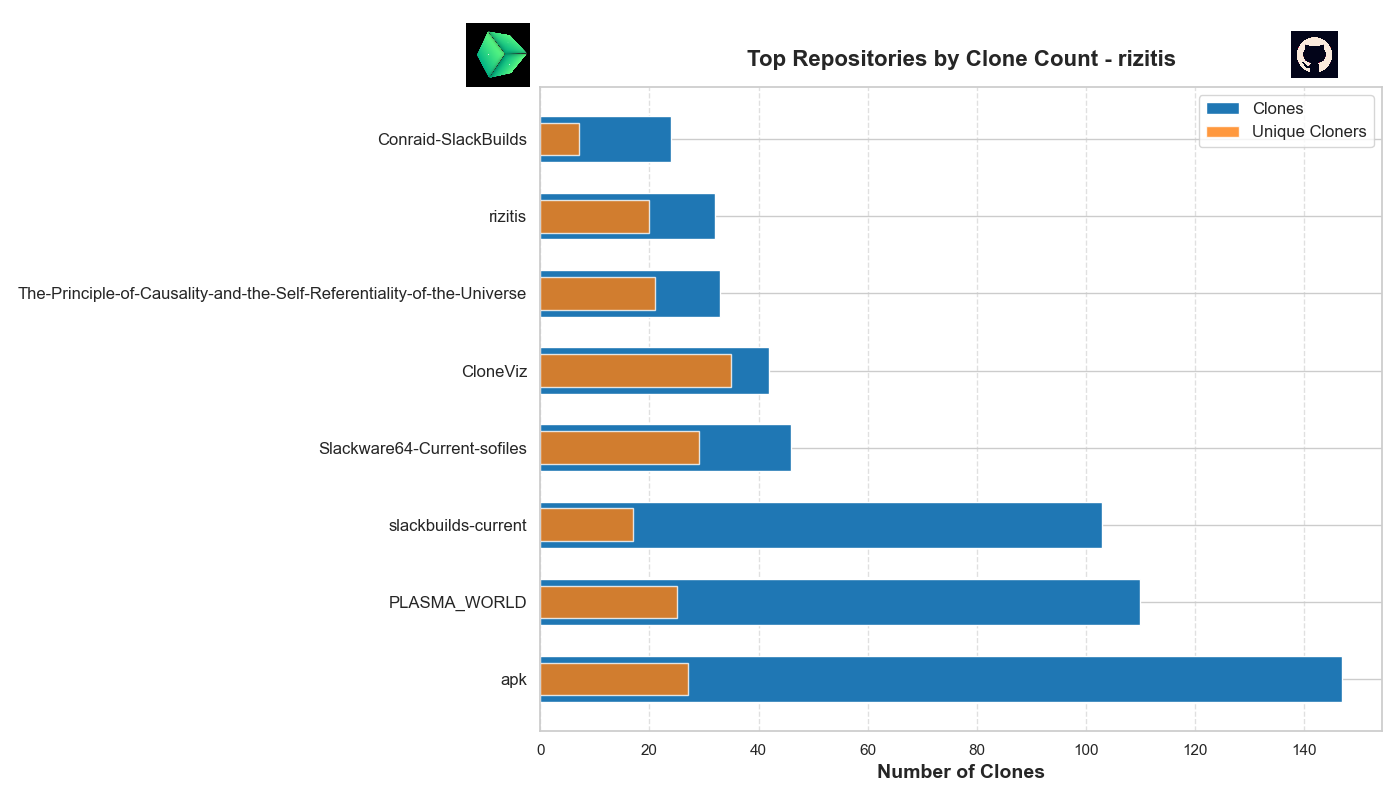
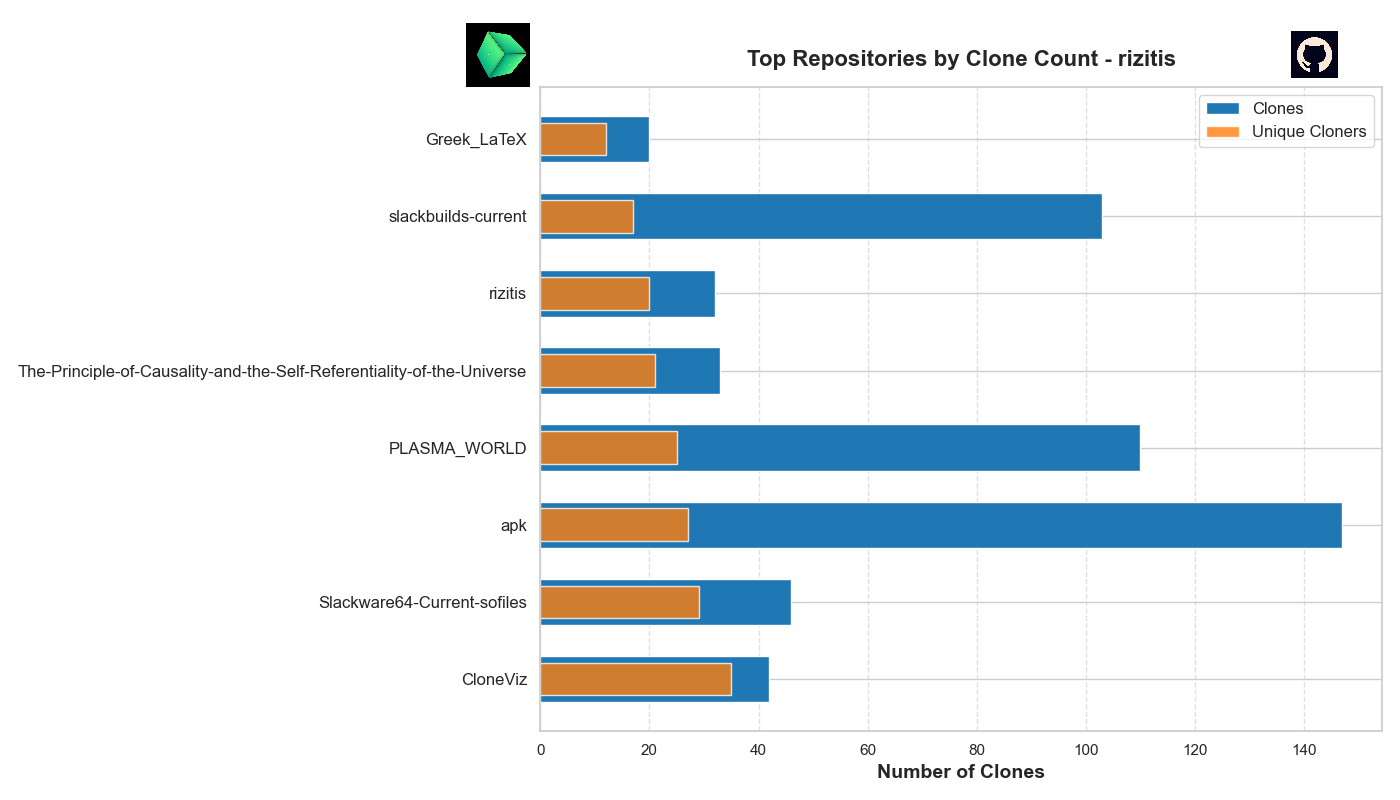
update script to stort by unique clones

diff --git a/visualize_clones.py b/visualize_clones.py
@@ -20,7 +20,9 @@ user_avatar = Image.open(BytesIO(response.content))
 
 # Limit to top N repositories
 top_n = 8 # Chnage this to the repo number you want to appears in plot.
-clone_data_sorted = sorted(clone_data, key=lambda x: x['clones'], reverse=True)[:top_n]
+#clone_data_sorted = sorted(clone_data, key=lambda x: x['clones'], reverse=True)[:top_n]
+clone_data_sorted = sorted(clone_data, key=lambda x: x['unique_cloners'], reverse=True)[:top_n]
+
 
 # Extract data for the repositories
 repo_names = [data['repo'] for data in clone_data_sorted]
